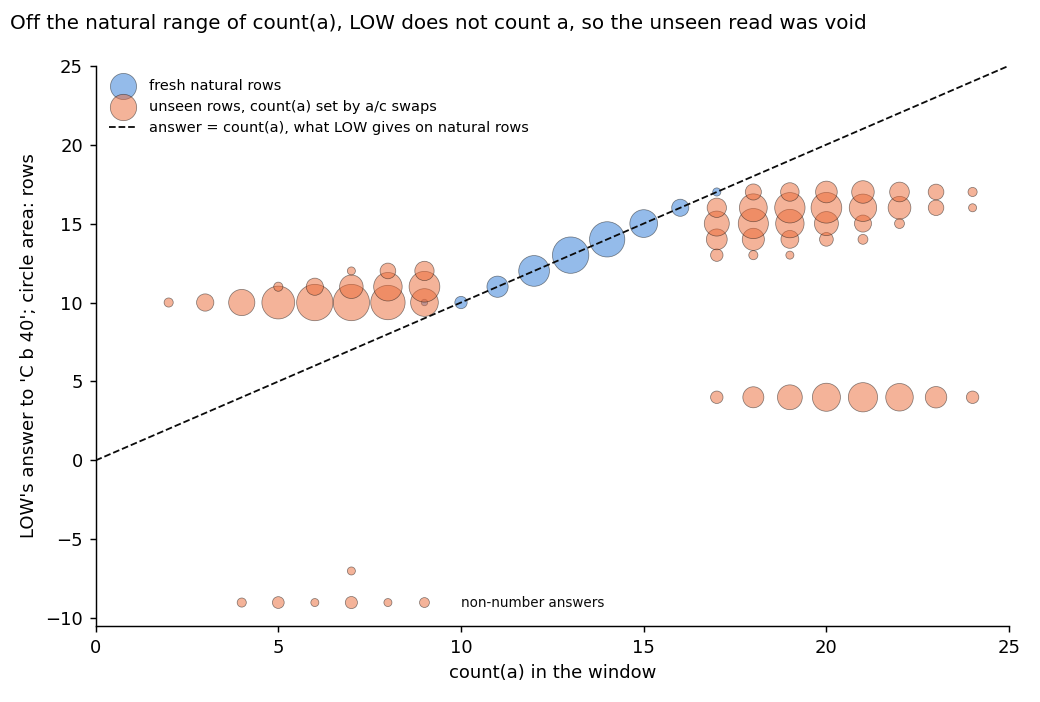
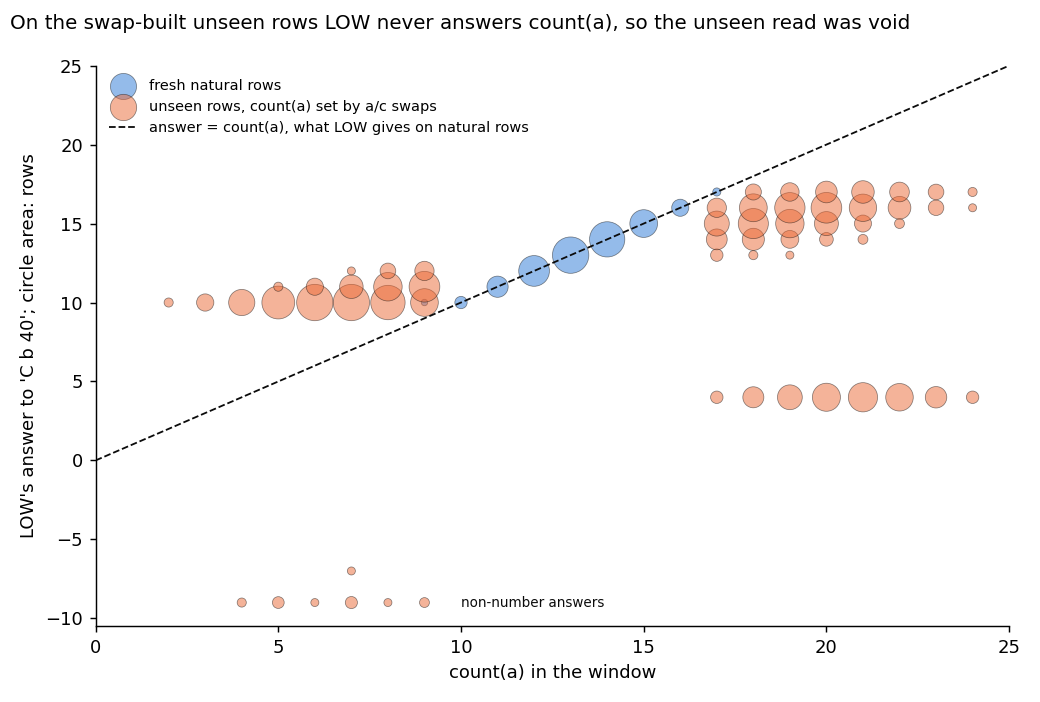
E55 Amendment 2: apply independent check corrections
reports/reviews/2026-10-29_review_e55-amend2-analysis.md findings 1-8: void caused mainly by the
swap-built rows (N1 by swap size table), 0 of 2 out-of-pair fresh rows, corrected-set cost,
LOW's answers above 17, trajectory as context, pair (16, 12), stage hedge, Stage A swap check.

Changed region(s): [[0.0308, 0.0, 0.8615, 0.0598]]

diff --git a/experiments/pcfg_anchors/plot_amend2.py b/experiments/pcfg_anchors/plot_amend2.py
@@ -42,7 +42,7 @@ def fig_fresh(out: str = "amend2_fresh.png",
 
 
 def fig_unseen(out: str = "amend2_unseen.png",
-               title: str = "Off the natural range of count(a), LOW does not count a, so the unseen read was void") -> None:  # fmt: skip
+               title: str = "On the swap-built unseen rows LOW never answers count(a), so the unseen read was void") -> None:  # fmt: skip
     big = RES / "large/amend2"
     fig, ax = plt.subplots(figsize=(8.0, 5.4))
     for name, col, lab in (("fresh", N_C, "fresh natural rows"), ("unseen", W_C, "unseen rows, count(a) set by a/c swaps")):

diff --git a/experiments/TRIED.md b/experiments/TRIED.md
@@ -104,7 +104,7 @@ Codes E1–E13 are the ones the research log ("Update Decomposition", see `READM
 | E52 | Activation and prompting baselines for teach vs elicit: do neuron patching (B2), a steering vector (B3) or prompting the original model with demonstrations (B4) tell E12's copy fine-tunes from its cipher fine-tunes, and does each read the learned-nothing code fine-tune as "no change"? (`experiments/baseline_neurons/`, 2026-10-29, ran; `reports/analyses/2026-10-29_analysis_e52-baseline-neurons.md`, `notebooks/E52_baseline_neurons.ipynb`; plan `reports/plans/2026-10-29_plan_baselines-scoping.md` section "B2 + B3 + B4 = E52"; predictions `results/predictions.json`; MATS cluster L40, debug QoS, job 44095, $0, `cluster/baseline_neurons.sbatch`) | Target model only, fp32, E46's eight E12 states and `code_step10`, each task's 97 held-out windows split into fit and scoring halves; every share = the method's change in log P(target) at the answer position over the fine-tune's gain G. Stage 0 first (identity neuron patch, full residual patch, G > 1 nat). B4: W₀ with 0/4/16 (marker, key, value) demonstrations, query key excluded. B3: one mean residual shift per block input, layer chosen on the fit half. B2: top-k MLP neurons by mean activation shift take the tuned activations (k = 1…all), k₅₀ and the idle share of the top 16. P1-P4 by E51's separation rule, P5 by the 0.05-nat floor | Stage 0 passes (hooks, not methods). Prompting W₀ at n = 16: share copy 0.10–0.12 vs cipher 0.13–0.14, rise 1.0–1.2 vs 1.6–1.9 nats, both near null: separates the wrong way (P4 reversed). Steering: S 0.72–0.80 copy vs 0.10–0.19 cipher (P3 pass). Neuron patching: half the gain only at all 12288 neurons in all 8 states, full-width share 0.50–0.71 copy, 0.76–0.97 cipher (P1 fails); idle share does not separate (P2 fails). code_step10 G = −0.0514 vs floor 0.05 (P5 fails by 0.0014) | Filed tree: P4 failed, stop and ask; decision pending (`reports/decisions/2026-10-29_decision_e52-p4.md`; options amend and rerun prompting, write up steering with caveat, key-dependent elicit pair). Readings of the reversal, all hypotheses: labels never checked by behaviour, prompt format too weak for a 4-layer model, two near-null shares. Steering may separate this pair by construction (input-independent vector vs key-dependent cipher) |
 | E52 amend 1 | Does the original model perform each task in context when the demonstrations sit next to the query? P4 re-asked (`experiments/baseline_neurons/amend1.py`, `plot_amend1.py`, 2026-10-29; decision `reports/decisions/2026-10-29_decision_e52-p4.md` option A, user "A then C"; predictions `results/predictions_amend1.json`; `cluster/baseline_neurons_amend1.sbatch`, MATS debug, $0) | W₀ only, the 48 scoring windows per task: Pile tokens 0-18, n = 0/4/16/31 (marker, key, value) demonstrations of other keys (E52's own draws; 31 = every other key), then the marker and query key. Share = rise / E52's G_score; top-1 at n = 31; raw rise. Stage 0: induction control (random 25-token sequence shown twice, top-1 on the second copy ≥ 0.5, source Olsson et al. 2022) and n = 0 equal to E52's window. P4a: copy share ≥ 0.5 at n = 31 and separates copy-higher by E52's rule; bands 0.5 / 0.3 | Filed and coded, not run (lean: fails, partial or mechanism only, low confidence) | Next: run; then option C (key-dependent elicit pair) to `/design` |
 | E53 | Performed anchor, stage A0 (planned): does the original 67M already continue lowercase Pile in lowercase, and fail a 50-word token cipher, before any fine-tune of either? (`experiments/performed_anchor/a0.py`, `src/commute/performed.py`, `cluster/performed_anchor.sbatch`, 2026-10-29; plan `reports/plans/2026-10-29_plan_performed-anchor.md` option A, approved by the user; predictions `results/predictions_a0.json`; cluster debug L40, ~5 min, $0) | W₀ only, Pile val rows 0-255. Control: W₀'s held-out log-probability on E36 Amendment 1's lowercased rows within 0.01 of −3.146. Log p(lowercase form) − log p(capitalised form) at case positions (6,070 by the tokenizer) in the lowercased rows (≥ +1) and in the cased rows (≤ −1); log p(π(x)) − log p(x) at cipher positions (2,916; π a seeded derangement of the word tokens of frequency ranks 50-99, in context and targets) (≤ −3). Stop: control missed, lowercase ≤ 0 or cipher > −1. **Fine-tunes and readings (code and predictions filed 2026-10-29, `run.py finetune` then `run.py read`, `score.py`, predictions `results/predictions.json`; cluster debug L40, two jobs ≤ 30 min, $0):** E37's recipe on each task at batch orders 0 and 1 (cipher saved at steps 10, 100, 300); at up to 500 scored positions per task (127-token windows), the stand-in ratio under the least-squares split (P1, scored: separates if min lowercase − max cipher ≥ 0.3), the relay (P2, reported), the zero update and do-nothing first, then a KL-matched random δW and a G-matched hand write (P3: write minus fine-tune within 0.15 = the ratio tracks the task). A row under 1 nat is read above a noise floor F = max(0.1, 2 × the random δW's gain, 2 × the row's standard error) | A0 ran and passed: lowercase +1.18 nats (90% interval 0.84-1.56), cased −5.58, cipher −5.53, control −3.1458 (`results/a0.json`). **Fine-tunes and readings ran** (`results/finetune.json`, `results/read.json`; analysis `reports/analyses/2026-10-29_analysis_e53-performed-anchor.md`, notebook `notebooks/E53_performed_anchor.ipynb`, figures `figures/{ratio,gain,nulls,relay}.png` from `plot.py`; MATS cluster L40 debug, fine-tune 107 s, read 217 s, $0; job IDs not recorded; pending an independent check). Controls passed: recipe 0.12963 vs 0.1301; bf16 within 0.0003; zero, do-nothing and same-G exact, but by construction (no information). **P1 separates**: stand-in ratio (masked gain / subcomponent gain, `score.ratio_of`) lowercase 0.919, 0.929 vs cipher 0.264, 0.257, gap 0.654 (bar 0.3; same at the 1-nat bar); 90% intervals ±0.03-0.06; seed spread ≤ 0.011. Gate gain / subcomponent gain 0.87-0.88 vs 0.14-0.15; the part beyond g is 0.05 of the subcomponent gain on lowercase but 0.12 on the cipher (toys 0.01-0.05; provisional). Matched gain (reported): cipher seed 0 step 100 G 2.32 ratio 0.28, seed 1 step 10 G 1.00 ratio 0.38, vs lowercase G 1.61-1.67; cipher ratio falls with steps (≈0.4 → 0.26). **P2 does not separate** (as leaned): relay 0.66 vs 0.41-0.42, gap 0.24; cipher relay below its lean 0.6-0.8, falls from 0.70-0.75 at step 10, alike to lowercase at matched gain. **P3 unread**: both hand writes hit the α cap 1000 without reaching target, G −16.9 (lowercase) and −11.9 (cipher), off-target KL 22.7 and 34.5 vs 0.37/0.26; write fit cosine 0.11/0.24, relative error 1.7/1.8 (next-token keys not identifiable from the input, candidate). Random δW (KL-matched): G −0.24 lowercase (gains negative, ratio undefined), +0.25 cipher (under its floor 0.49, unread; cells divide to 0.83). Leans: lowercase ratio, relay, G met; cipher ratio and G met, relay missed. Reading "separates (P3 unread)". Limit: a new mechanism built from W₀'s pieces reads "elicited"; the cipher's answers are common words with existing output pieces, yet read low | The ratio separates this performed/new pair by a wide margin, but whether it reads kind or task is open (the main caveat). Next: a task-matched null that reaches its gain (decides kind vs task), a second decomposition seed (narrows the granularity limit), then Qwen stage 1 with an anchor Qwen performs; the choice goes to the user |
-| E55 | Reuse anchors, Stage A: on Jain et al.'s counting grammar, does a fine-tune that learns to count b run through the model's existing count of a, judged by behaviour and an interchange patch with no decomposition? (`experiments/pcfg_anchors/`, `src/commute/pcfg.py`, `src/commute/interchange.py`, 2026-10-29; plan `reports/plans/2026-10-29_plan_reuse-stage1.md` Revision 1; predictions `results/predictions.json`, four filings, A2 bars filed before any fine-tune; analysis `reports/analyses/2026-10-29_analysis_e55-stage-a.md`, corrected after review `reports/reviews/2026-10-29_review_e55-stage-a-analysis.md`, notebook `notebooks/E55_pcfg_anchors.ipynb`, figures `figures/{controls,probe,labels,table6}.png` from `plot.py`, log figures from `plot_log.py`; MATS cluster debug, jobs a0 44244, a1 44268-44270, a1c 44306/44307, a2 44328-44330, $0) | minGPT 6 blocks d 192 (~3M), 50K pretraining steps, three Counter priors: LOW (counts a), HIGH (a, b, c), NEVER (b only). Fine-tunes to count b from LOW at lr {1e-4, 1e-5} × spurious share {0, 0.5, 0.8, 1} (Table 6 grid; spurious rows set count(b) = count(a) + 1), plus R from HIGH; seed 1 of N1 and W1; states at 1K and 10K. Checks at `=`: behaviour B (share answering count(a) + 1, or count(b)) and patch P (residual after block 5 swapped from a donor with the same other count; share following the donor), bars from A1 nulls and positives (count a: B 0.10/0.50, P 0.097/0.483; count b: B 0.342/0.635, P 0.10/0.50). Possession: linear probe margin over shuffled-label (and NEVER) controls, bar 0.5 × LOW's count-a margin | Controls clean: P at block 5 0.966 (LOW count a) and 1.000 (HIGH count b), every null 0 at every block; LOW's count-b accuracy 0.2215 = the score of answering count(a). PA1 pass. PA2 pass at the cap: 7 of 9 10K cells within 15 points; W1 17.7 (on the count(a) + 1 floor 17.65) and W2 25.95 miss. **PA3 missed, not reversed** (4 of 7): W1 1K through count a (B 0.88, P 0.72; seed 1 0.90, 0.76), W1 10K neither (0.40, 0.36, both seeds), W2 neither at 1K (B 0.488 vs hi 0.4999) and 10K; N1 not through at both (B = P = 0); R through count b. Every N and M state at 10K: B = P = 0 for count a, through count b; also loses LOW's count-a task (0.2175, as NEVER). Fast arms never through count a; the slow 80%-spurious arm M3 is through count a at 1K (B 0.631, P 0.594; the plan leaned this way for M2 and M3) and not through at 10K; M2 1K neither (P 0.519 over hi, B 0.430). W at 10K: last-block swap 0.64 (count a) and 0.57 (count b), so the answer depends on both. A count-c-only answer is ruled out for W1 at 10K: since a + b + c = 40, any f(count c) with B_b <= 0.01 reaches B_a <= 0.105 vs 0.399 read (65K windows, no model); the midpoint of count(a) + 1 and count(b), rounded towards count(a) + 1, gives (0.408, 0.000) and fits, untested. W2 10K (0.292, 0.102) not excluded. B and P never point opposite ways (null: 0 of 17). PA4 pass by its rule, narrowly: LOW count-b margin 0.277 at block 2 vs bar 0.260 (3 s 0.032); controls uneven (count-a margin also subtracts NEVER, which decodes count a at 0.44-0.52; count-b margin subtracts shuffled labels only; count(a) alone predicts count(b) at 0.40). Each A2 cell read once, binomial sd ~0.016 near 0.5; no count-a label rests on a cell within noise. Stage C truth set: 2 through (M3 1K, W1 1K), 9 not, 5 neither (plan expected 6/8/2); pass bar for n = 11 is 10. **Amendment 1** (`amend1.py`, `results/predictions_amend1.json` filed twice before the run, `results/amend1.json`, job 44439, $0, figures `amend1_{trajectory,rounding,offsets}.png` from `plot_amend1.py`): per-row answers on 8,000 natural rows against four rules (count(a) + 1, count(b), count(a), midpoint of count(a) + 1 and count(b) rounded towards count(a) + 1) plus a rounding read that separates the midpoint from count c alone. Controls all pass (6 synthetic answerers, N1 10K route b, LOW route a). AM1 met (W1, W1s1 1K route count(a) + 1, S 0.82, 0.86). **AM2 missed**: W1, W1s1 10K route mixed, S_mid 0.50 < 0.81; above count(a) + 1 they round as the midpoint (0.99, 1.00), below only 0.35, 0.37. AM3 10K met (W2 10K midpoint, S_mid 0.998, both halves), AM3 1K missed (W2 1K already mixed, S_a+1 0.15). AM4 met (no fixed rounding, so no count-c-only answer). AM5: re-run reproduces B, P within 0.002 but max abs dw 4e-4 to 2.4e-3 (sibling run; losses differ by step 500 on the same data, cause unmeasured: kernels, card, compile or resume steps); through count a at 2K, neither from 3K; rule switch missed. Exploration, not filed: W1 and W1s1 at 10K answer round((2(count(a) + 1) + count(b)) / 3), a third of the way from count(a) + 1 to count(b), on 97.8% and 98.1% of rows and on all 92 rows where it differs from the four rules; below count(a) + 1 they answer count(a) where count(b) is 1-3 below count(a), one step nearer count(a) + 1 than the midpoint. No A2 label changes. **Amendment 2** (`amend2.py`, `results/predictions_amend2.json` filed before the run, `results/amend2.json`, job 44520, $0, figures `amend2_{fresh,unseen}.png` from `plot_amend2.py`): the one-third rule filed and read on 20,000 fresh natural rows. All filed fresh-row predictions met: W1, W1s1 10K route third (S 0.991 on its 219 own rows, 0.977 and 0.981 of all rows, 0.21 over the best rule of count c alone); W2 1K third (0.982); W2 10K mid (S 1.0; mid 0.10 over count c alone); W1 1K still a+1. A within-pair replication only (fresh rows repeat amend1's (a, b) cells, code review finding 1). The unseen-pair read (8,949 rows built by a/c swaps, count a 2-9 or 17-24) was void: 0 rows where LOW answers count(a); model-free diagnosis: rebuilt counts match, LOW clips its answer to about 10-17 (a model range limit, not a scoring bug), and also fails on 341 swap-built rows at (17, 13) though it counts a = 17 on natural rows; an in-range natural unseen set has about 5 edge cells, each at most 1 in 20,000 natural rows | The ground truth works but gives only two "existing" states; Amendment 1 shows the all-spurious states at 10K answer a function of two of the three counts that no single count explains (best one-count rule 0.79 of rows vs 0.978; which two, behaviour cannot tell, since a + b + c = 40; count a as one of them rests on LOW's prior), a candidate third class rather than "existing" anchors. Next: the user decides Stage C's truth set (keep 11 labelled states; add a third class "answers a function of two counts, not of the old count alone" holding W2 10K and, W1 10K, now filed and met on fresh rows within the same pairs; or score the W arms as a separate test); W2 1K matches the one-third rule on 0.899 of rows before moving to the midpoint, and W1's lower half is still rising at 10K (0.113, 0.198, 0.356 at 5K, 7K, 10K), both bearing on that choice; more "existing" anchors need more seeds of W1 at 1K-2K (the window closes by 3K) |
+| E55 | Reuse anchors, Stage A: on Jain et al.'s counting grammar, does a fine-tune that learns to count b run through the model's existing count of a, judged by behaviour and an interchange patch with no decomposition? (`experiments/pcfg_anchors/`, `src/commute/pcfg.py`, `src/commute/interchange.py`, 2026-10-29; plan `reports/plans/2026-10-29_plan_reuse-stage1.md` Revision 1; predictions `results/predictions.json`, four filings, A2 bars filed before any fine-tune; analysis `reports/analyses/2026-10-29_analysis_e55-stage-a.md`, corrected after review `reports/reviews/2026-10-29_review_e55-stage-a-analysis.md`, notebook `notebooks/E55_pcfg_anchors.ipynb`, figures `figures/{controls,probe,labels,table6}.png` from `plot.py`, log figures from `plot_log.py`; MATS cluster debug, jobs a0 44244, a1 44268-44270, a1c 44306/44307, a2 44328-44330, $0) | minGPT 6 blocks d 192 (~3M), 50K pretraining steps, three Counter priors: LOW (counts a), HIGH (a, b, c), NEVER (b only). Fine-tunes to count b from LOW at lr {1e-4, 1e-5} × spurious share {0, 0.5, 0.8, 1} (Table 6 grid; spurious rows set count(b) = count(a) + 1), plus R from HIGH; seed 1 of N1 and W1; states at 1K and 10K. Checks at `=`: behaviour B (share answering count(a) + 1, or count(b)) and patch P (residual after block 5 swapped from a donor with the same other count; share following the donor), bars from A1 nulls and positives (count a: B 0.10/0.50, P 0.097/0.483; count b: B 0.342/0.635, P 0.10/0.50). Possession: linear probe margin over shuffled-label (and NEVER) controls, bar 0.5 × LOW's count-a margin | Controls clean: P at block 5 0.966 (LOW count a) and 1.000 (HIGH count b), every null 0 at every block; LOW's count-b accuracy 0.2215 = the score of answering count(a). PA1 pass. PA2 pass at the cap: 7 of 9 10K cells within 15 points; W1 17.7 (on the count(a) + 1 floor 17.65) and W2 25.95 miss. **PA3 missed, not reversed** (4 of 7): W1 1K through count a (B 0.88, P 0.72; seed 1 0.90, 0.76), W1 10K neither (0.40, 0.36, both seeds), W2 neither at 1K (B 0.488 vs hi 0.4999) and 10K; N1 not through at both (B = P = 0); R through count b. Every N and M state at 10K: B = P = 0 for count a, through count b; also loses LOW's count-a task (0.2175, as NEVER). Fast arms never through count a; the slow 80%-spurious arm M3 is through count a at 1K (B 0.631, P 0.594; the plan leaned this way for M2 and M3) and not through at 10K; M2 1K neither (P 0.519 over hi, B 0.430). W at 10K: last-block swap 0.64 (count a) and 0.57 (count b), so the answer depends on both. A count-c-only answer is ruled out for W1 at 10K: since a + b + c = 40, any f(count c) with B_b <= 0.01 reaches B_a <= 0.105 vs 0.399 read (65K windows, no model); the midpoint of count(a) + 1 and count(b), rounded towards count(a) + 1, gives (0.408, 0.000) and fits, untested. W2 10K (0.292, 0.102) not excluded. B and P never point opposite ways (null: 0 of 17). PA4 pass by its rule, narrowly: LOW count-b margin 0.277 at block 2 vs bar 0.260 (3 s 0.032); controls uneven (count-a margin also subtracts NEVER, which decodes count a at 0.44-0.52; count-b margin subtracts shuffled labels only; count(a) alone predicts count(b) at 0.40). Each A2 cell read once, binomial sd ~0.016 near 0.5; no count-a label rests on a cell within noise. Stage C truth set: 2 through (M3 1K, W1 1K), 9 not, 5 neither (plan expected 6/8/2); pass bar for n = 11 is 10. **Amendment 1** (`amend1.py`, `results/predictions_amend1.json` filed twice before the run, `results/amend1.json`, job 44439, $0, figures `amend1_{trajectory,rounding,offsets}.png` from `plot_amend1.py`): per-row answers on 8,000 natural rows against four rules (count(a) + 1, count(b), count(a), midpoint of count(a) + 1 and count(b) rounded towards count(a) + 1) plus a rounding read that separates the midpoint from count c alone. Controls all pass (6 synthetic answerers, N1 10K route b, LOW route a). AM1 met (W1, W1s1 1K route count(a) + 1, S 0.82, 0.86). **AM2 missed**: W1, W1s1 10K route mixed, S_mid 0.50 < 0.81; above count(a) + 1 they round as the midpoint (0.99, 1.00), below only 0.35, 0.37. AM3 10K met (W2 10K midpoint, S_mid 0.998, both halves), AM3 1K missed (W2 1K already mixed, S_a+1 0.15). AM4 met (no fixed rounding, so no count-c-only answer). AM5: re-run reproduces B, P within 0.002 but max abs dw 4e-4 to 2.4e-3 (sibling run; losses differ by step 500 on the same data, cause unmeasured: kernels, card, compile or resume steps); through count a at 2K, neither from 3K; rule switch missed. Exploration, not filed: W1 and W1s1 at 10K answer round((2(count(a) + 1) + count(b)) / 3), a third of the way from count(a) + 1 to count(b), on 97.8% and 98.1% of rows and on all 92 rows where it differs from the four rules; below count(a) + 1 they answer count(a) where count(b) is 1-3 below count(a), one step nearer count(a) + 1 than the midpoint. No A2 label changes. **Amendment 2** (`amend2.py`, `results/predictions_amend2.json` filed before the run, `results/amend2.json`, job 44520, $0, figures `amend2_{fresh,unseen}.png` from `plot_amend2.py`): the one-third rule filed and read on 20,000 fresh natural rows. All filed fresh-row predictions met: W1, W1s1 10K route third (S 0.991 on its 219 own rows, 0.977 and 0.981 of all rows, 0.21 over the best rule of count c alone); W2 1K third (0.982); W2 10K mid (S 1.0; mid 0.10 over count c alone); W1 1K still a+1. A within-pair replication only (fresh rows repeat amend1's (a, b) cells, code review finding 1). The unseen-pair read (8,949 rows built by a/c swaps, count a 2-9 or 17-24) was void: 0 rows where LOW answers count(a); model-free diagnosis, corrected after the independent check reports/reviews/2026-10-29_review_e55-amend2-analysis.md: rebuilt counts match (no bug), but the swap-built rows break both controls, more the larger the swap: N1's untouched count(b) is exact on 0.87 of rows at 2 letters swapped and 0.14 at 8; above 17 LOW answers roughly the pre-swap count(a) (mode 4 at a = 21-24), and fails all 341 rows in the in-range pair (17, 13); below 10 a clip near 10 may add. The two fresh rows in new pairs where third is distinct, (17, 10) and (17, 9), are answered 16 by every state following third, not its 15 (0 of 2). A natural-text unseen set in 5 in-range pairs costs CPU seconds to minutes; Amendment 3 (being written) builds it and checks Stage A's spurious-row accuracy by swap size, since the fine-tuning and spurious test rows use the same swap step | The ground truth works but gives only two "existing" states; Amendment 1 shows the all-spurious states at 10K answer a function of two of the three counts that no single count explains (best one-count rule 0.79 of rows vs 0.978; which two, behaviour cannot tell, since a + b + c = 40; count a as one of them rests on LOW's prior), a candidate third class rather than "existing" anchors. Next: the user decides Stage C's truth set (keep 11 labelled states; add a third class "answers a function of two counts, not of the old count alone" holding W2 10K and, W1 10K, now filed and met on fresh rows within the same pairs; or score the W arms as a separate test); W2 1K matches the one-third rule on 0.899 of rows before moving to the midpoint, and W1's lower half is still rising at 10K (0.113, 0.198, 0.356 at 5K, 7K, 10K), both bearing on that choice; more "existing" anchors need more seeds of W1 at 1K-2K (the window closes by 3K) |
 
 ## Proposed and dropped
 

diff --git a/reports/analyses/2026-10-29_analysis_e55-stage-a.md b/reports/analyses/2026-10-29_analysis_e55-stage-a.md
@@ -316,6 +316,9 @@ count alone; that makes them a candidate third class, not more "existing" anchor
    10K. They leave `count(a) + 1` between 1K and 5K for an answer built from two counts, so the next step is the
    third-class decision there.
 3. **Done in Amendment 2, below:** the one-third rule on fresh rows. It held; the test on new pairs of counts was void.
+4. **Check Stage A's spurious-row readings for a swap effect.** The fine-tuning rows and the spurious test rows are
+   built by the same a/c swap step, which Amendment 2 found breaks the control models on larger swaps. Stage A's
+   readings on spurious rows may carry part of that effect; Amendment 3 checks accuracy there by swap size, $0.
 
 ## Scorecard
 
@@ -341,6 +344,8 @@ by `interchange.label` with strict inequalities.
   of LOW, gated.
 - Per-row answers and states between 1K and 10K were run in Amendment 1, below; its own "Not run" list follows it.
 - A test of the one-third rule on new pairs of counts: Amendment 2's unseen read was void; its "Not run" list follows it.
+- A check of the spurious-row readings by swap size: the fine-tuning and spurious test rows use the a/c swap step
+  that broke the controls in Amendment 2.
 - A mechanism-level test that separates the count of c from the counts of a and b, for either patch.
 - A positive control of the fine-tuned behaviour reading itself, the share equal to `count(a) + 1` on qualifying
   `C b 40` inputs. A count-b patch null on `C b 40`, the fine-tunes' own prefix.
@@ -671,14 +676,17 @@ cd1c19b. Figures from `plot_amend2.py`.*
 We read the all-spurious fine-tunes again on 20,000 fresh natural inputs, to test the rule Amendment 1 found by
 looking. Both seeds of the slow fine-tune at 10K answer it on 98% of the fresh rows, the fast one at 1K
 follows it on its own rows, and the fast one at 10K still answers the midpoint. The fresh rows repeat the same count
-combinations, so this shows the rule is stable, not that it generalises; the test on new combinations was void.
+combinations, so this shows the rule is stable, not that it generalises; the test on new combinations was void,
+because the swap-built rows broke both control models.
 
 ### The answer
 
 The one-third rule now passes a filed test. The slow all-spurious fine-tune at 10K answers it on 98% of 20,000 new
 rows at both seeds, and on 99% of the rows where it differs from every other rule. The fast one at 1K follows it
-too, and moves on to the midpoint by 10K. Every filed prediction on the fresh rows was met. But the new rows hold the
-same pairs of counts as before. The test on new pairs was void, because the base model cannot count a that far out.
+too; at 10K it answers the midpoint, so the one-third rule may be a stage it passes through. Every filed prediction on the fresh rows was met. But the new rows hold the
+same pairs of counts as before. The test on new pairs was void: the rows built for it by swapping
+letters broke both control models, more the larger the swap. The only two fresh rows in new pairs go against the
+rule.
 
 ### What we were trying to test
 
@@ -688,8 +696,9 @@ drawn from a new seed and disjoint from Amendment 1's rows, were asked `C b 40` 
 the four of Amendment 1 plus the one-third rule, is read on its own rows, with the same bars. A second read asks
 whether the state's answers beat the best possible rule of count c alone by more than 0.05 of all rows.
 
-The code review pointed out that fresh texts land in the same pairs of window counts as before. Since a state's
-answer is almost fixed by that pair, the fresh read is a replication within the same pairs. So a second set was
+The code review pointed out that fresh texts land in the same pairs of window counts as before. A state's
+answer is almost fixed by that pair, so the fresh read is a replication within the same pairs. One large pair is an
+exception: in pair (16, 12), 142 rows, the slow state at 10K answers `count(a)` on 102 rows and the rule on 40. So a second set was
 added before the run: 8,949 rows whose count of a was moved four to eight away from count b by swapping a's and c's,
 in pairs Amendment 1 never saw. Those rows were to be read only in pairs where LOW still answers `count(a)` and the
 fast no-spurious fine-tune still answers `count(b)`.
@@ -715,7 +724,8 @@ rows. The fast one at 10K never does there and follows the midpoint instead, on 
 fast no-spurious fine-tune sit at or under their count-c reference.
 
 The re-run of the slow arm tells the same story on the fresh rows. Its route is `count(a) + 1` at 1K, mixed at 2K,
-and the one-third rule from 3K on. Its share of all rows rises from 0.58 at 1K to 0.98 at 10K.
+and the one-third rule from 3K on. Its share of all rows rises from 0.58 at 1K to 0.98 at 10K. These re-run
+states are context, not scored.
 
 | state | route | one-third rule, own rows | one-third rule, all rows | margin over count c alone | midpoint, own rows |
 |---|---|---|---|---|---|
@@ -743,34 +753,53 @@ Re-run of the slow arm, seed 0 then seed 1:
 
 ![LOW's answer against count a, fresh and unseen rows](../../experiments/pcfg_anchors/figures/amend2_unseen.png)
 
-**Reading it.** Because the base model does not count a outside the range it was trained on. The figure plots LOW's
-answer against the row's count of a. On fresh rows, where the count of a runs from 10 to 17, LOW answers it every
-time. On the unseen rows the count of a runs from 2 to 9 and from 17 to 24. There LOW answers 10 or 11 for every
-count of a up to 9, and 14 to 17, or a stray 4, above. It gives the right count on none of the 8,949 rows, so no
-pair passed the filter and the read was void.
+**Reading it.** Mainly because the rows built by swapping letters broke both control models, not because of a
+counting range we could show. The figure plots LOW's answer against the row's count of a. On fresh rows, where the
+count of a runs from 10 to 17, LOW answers it every time. On the unseen rows it is right on none of the 8,949 rows,
+so no pair passed the filter and the read was void.
 
-This is a limit of the model, not a mismatch in the construction or the scoring. Rebuilding the unseen texts from
-the filed seed without a model reproduced the saved counts on every row. LOW's answers move with the count of a in
-the right direction, and are clipped. The fast no-spurious fine-tune answers within one of `count(b)` on 90% of rows,
-so its answers line up with the saved rows; it errs mostly by one too high. Its count of b is in range, so the
-swaps also disturb a model's count of an untouched letter. One row type shows the swaps themselves may matter.
-LOW fails on all 341 unseen rows with count a at 17, count b at 13 and count c at 10. Each count there is in its
-natural range, and LOW answers the count of a at 17 on all nine fresh rows that have it. Whether the swap-built text
-or the rare combination causes that failure was not tested.
+The rows are what the filing specified: rebuilding them from the filed seed without a model reproduced the saved
+counts on every row. But the swap itself hurts. The fast no-spurious fine-tune answers `count(b)`, a letter the swap
+never touches and whose count stays in its natural range. Its exact share falls steadily with the number of letters
+swapped, as the table shows. On fresh natural rows it is exact for every count of c.
 
-A corrected unseen set looks hard to build. Pairs inside the range where LOW counts, count a 10 to 17, at least four
-apart and not in Amendment 1's rows, number eight. In five of them the one-third rule differs from the other rules, and all five have count a 14 to 17 with count b 9 or 10. Natural texts land in them at most once in 20,000. Sampling
-enough natural texts to fill them is possible model-free, but the five cells sit at the edge of the trained range, and
-would test generalisation only a little way out.
+| letters swapped | rows | fast no-spurious fine-tune answers `count(b)` | LOW answers `count(a)` |
+|---|---|---|---|
+| 1 | 9 | 1.00 | 0.00 |
+| 2 | 104 | 0.87 | 0.00 |
+| 3 | 473 | 0.70 | 0.00 |
+| 4 | 1,030 | 0.58 | 0.00 |
+| 5 | 1,514 | 0.47 | 0.00 |
+| 6 | 1,617 | 0.33 | 0.00 |
+| 7 | 1,540 | 0.21 | 0.00 |
+| 8 | 1,186 | 0.14 | 0.00 |
+| 9 to 13 | 1,476 | 0.00 to 0.06 | 0.00 |
+
+Where the count of a was raised above 17, LOW's answer follows the count of a before the swap, not after it. The
+independent check found a slope of 0.85 on the pre-swap count within pairs. Its mean answer falls from 14.6 at a
+count of 17 to 7.2 at 24, and the answer 4 is its most common one from 21 to 24. In pair (17, 13) every count is in
+its natural range, yet LOW is wrong on all 341 swap-built rows; it counts a at 17 on all nine natural rows that have
+it. Where the count of a was lowered to 9 or less, LOW answers about 10 whatever the count was before the swap. That
+looks like a clip, and the two natural rows with a count of 9 also read 10. So a range limit may add on that side.
+Whether LOW counts a outside 10 to 17 on natural text was not tested.
+
+A corrected unseen set is cheap to build. The sampler draws 200,000 natural texts in four seconds on one CPU. Five
+in-range pairs, count a 14 to 17 with count b 9 or 10, are new and have the one-third rule distinct. The most common
+of them, (17, 10), comes up about 17 times per 200,000 texts; two others need a few million texts for twenty rows; the
+rarest two need tens of millions, still CPU minutes. The same sampler gives natural rows in pair (17, 13), and one LOW
+read of them would say whether the swap or the rare pair broke LOW there. These pairs sit at the edge of the range, so
+they test generalisation only a short way out. An Amendment 3 is being written to build this set.
 
 ### What we learned
 
-The one-third rule is a stable description of the slow all-spurious fine-tune from 3K steps on, and of the fast one at
-1K. It holds on new texts within the same pairs of counts at both seeds, not just on the rows it was found on. It is not
-a rule of count c alone. Whether it extends to new pairs of counts is unknown: the base model cannot count that far
-out, so the test could not be run. For Stage C, the slow state at 10K now meets option 2's condition on fresh rows,
-with that limit stated. As before, the reads say the answer is a function of two of the three counts; that one is
-the count of a rests on LOW's prior.
+On fresh rows the slow all-spurious fine-tune at 10K answers the one-third rule at both seeds, and the fast one at 1K
+follows it on its own rows. In one re-run per seed the slow arm follows the rule on its own rows from 3K. It answers it
+on 95% of all rows from 5K at seed 0 and from 7K at seed 1. Those re-run states are context, not scored. The rule holds
+on new texts within the same pairs of counts, and it is not a rule of count c alone. Whether it extends to new pairs is
+open. The only two fresh rows in new pairs where it is distinct go against it, and the unseen test was void because the
+swap-built rows broke the controls. For Stage C, the slow state at 10K now meets option 2's condition on fresh rows,
+with that limit stated. As before, the reads say the answer is a function of two of the three counts; that one is the
+count of a rests on LOW's prior.
 
 ### How compelling is the evidence
 
@@ -779,6 +808,11 @@ the count of a rests on LOW's prior.
 - **Within-pair replication.** The review showed that giving each fresh row the slow state's most common answer from
   Amendment 1's rows for its pair already passes the main test. So the pass shows the answer is fixed by the pair of
   counts when the rest of the text changes. It does not show the rule extends to new pairs.
+- **Outside the pairs.** Of the 20,000 fresh rows, 19 lie in pairs Amendment 1 did not see. Two of them, in pairs
+  (17, 10) and (17, 9), are rows where the rule differs from every other. Every all-spurious state that follows the rule
+  answers 16 on both, where the rule gives 15; LOW counts a right on both. At a count of a of 17 the slow state answers
+  16 on all nine fresh rows, whatever count b is. Two rows prove nothing, but they are the only out-of-pair evidence,
+  and they go against the rule.
 - **Units.** The one-third rule's 219 own rows lie in about a dozen pairs, four of which hold 190 rows. So one pair
   answered otherwise would move its share by up to a third. The pooled share is 0.991, and all four pairs with
   twenty or more rows agree.
@@ -786,18 +820,19 @@ the count of a rests on LOW's prior.
 
 ### Surprises
 
-- LOW, which counts a perfectly on natural text, answers it on none of the swap-built rows, and is clipped near 10 and
-  17. A filed control missed for this reason, voiding the unseen read.
-- The fast no-spurious fine-tune also errs on those rows, by one too high, though the count of b there is untouched.
+- LOW, which counts a perfectly on natural text, answers it on none of the swap-built rows. Above 17 it answers
+  roughly the count of a before the swap. A filed control missed for this reason, voiding the unseen read.
+- The fast no-spurious fine-tune's count of b, which the swap never touches, gets worse the more letters were swapped.
+- The same swap step builds the spurious fine-tuning rows and Stage A's spurious test rows, with swaps of mostly 0 to
+  3. Stage A's readings on those rows could carry part of this effect.
 
 ### What next
 
-1. **The third-class decision for Stage C**, now with the slow state's rule filed and met on fresh rows within the
-   same pairs. If the user wants generalisation shown first, item 2 is the only route.
-2. **An in-range unseen set**, by sampling natural texts until about five edge pairs have twenty rows each, model-free
-   and $0. If LOW counts a there, the one-third rule gets a small out-of-pair test; if not, it cannot be tested on this
-   model.
-
+1. **Amendment 3, being written:** an unseen set from natural texts in the five new in-range pairs, a LOW read of
+   natural rows in pair (17, 13), and the accuracy of N1 and LOW on Stage A's spurious test rows by swap size. If LOW
+   counts a in the new pairs, the one-third rule gets a small out-of-pair test.
+2. **The third-class decision for Stage C**, now with the slow state's rule filed and met on fresh rows within the
+   same pairs, and with the two out-of-pair rows against it. Amendment 3's out-of-pair read bears on it.
 ### Scorecard
 
 | id | claim in words | rule | read | verdict |
@@ -815,9 +850,12 @@ the count of a rests on LOW's prior.
 
 ### Not run
 
-- Any read on pairs of counts outside Amendment 1's, so any test that the one-third rule generalises.
-- An unseen set built from natural texts in in-range pairs; a test of whether the swaps or the rare pair broke LOW at
-  count a 17, count b 13.
+- Any read on pairs of counts outside Amendment 1's beyond two fresh rows, so any test that the one-third rule
+  generalises. Amendment 3 is being written for this.
+- An unseen set built from natural texts in the new in-range pairs; a LOW read of natural rows in pair (17, 13).
+- A test of whether LOW counts a outside 10 to 17 on natural text.
+- The accuracy of N1 and LOW on Stage A's spurious test rows by swap size.
+- A trajectory of the fast all-spurious arm between 1K and 10K.
 - A mechanism test of the one-third rule or of the midpoint; anything telling which two counts are used.
 - A second seed of the fast all-spurious arm.
 - The two slow fine-tunes with natural rows at 1K, the other "neither" states.

diff --git a/docs/research_log/PENDING.md b/docs/research_log/PENDING.md
@@ -8,5 +8,5 @@ clerk: find it in the changelog rather than re-adding it (friction 84, 117).
 A flush applies every line to `parts/` (README.md → Layout), rebuilds, republishes, and moves the lines to the changelog row it writes, leaving this list empty.
 
 - 2026-10-29 reuse-lead · `reports/analyses/2026-10-29_analysis_e55-stage-a.md` (new section "Amendment 1", opening and answer updated), `notebooks/E55_pcfg_anchors.ipynb` (Amendment 1 cells), `experiments/TRIED.md` E55 row, log figure `experiments/pcfg_anchors/figures/log_amend1_trajectory.png` (from `plot_log.py`) · E55 card (add Amendment 1 to Found/Moved on; figure fig/e55_amend1_trajectory.png), pending-decision card (new: Stage C third class), timeline 2026-10-29 · E55 Amendment 1 ran ($0, job 44439): row by row, the all-spurious fine-tunes answer count(a) + 1 at 1K and leave it between 1K and 5K for an answer that is a function of two of the three counts and of no single count (which two, behaviour cannot tell); the fast one at 10K answers the midpoint of count(a) + 1 and count(b) (filed, met), the slow one does not (filed, missed) and, by an unfiled reading, answers a third of the way from count(a) + 1 to count(b) on 98% of rows; no fixed rounding, so no count-c-only answer; no A2 label changes (Stage C stays 2 through / 9 not / 5 neither), and whether these states form a third class ("answers a function of two counts, not of the old count alone") is a user decision; corrected after the independent check reports/reviews/2026-10-29_review_e55-amend1-analysis.md
-- 2026-10-29 reuse-lead · `reports/analyses/2026-10-29_analysis_e55-stage-a.md` (new section "Amendment 2", opening, answer, What next, Not run), `notebooks/E55_pcfg_anchors.ipynb` (Amendment 2 cells), `experiments/TRIED.md` E55 row, figures `experiments/pcfg_anchors/figures/amend2_{fresh,unseen}.png` (from `plot_amend2.py`) · E55 card (add Amendment 2 to Found), pending-decision card on the Stage C third class (the slow state's rule is now filed and met on fresh rows), timeline 2026-10-29 · E55 Amendment 2 ran ($0, job 44520): the one-third rule, filed, held on 20,000 fresh rows (slow all-spurious 10K at both seeds 0.98 of all rows, 0.99 on its own rows, 0.21 over count c alone; fast all-spurious at 1K follows it, at 10K the midpoint), every fresh-row prediction met, but the fresh rows repeat the same pairs of counts, so it shows stability, not generalisation; the test on new pairs was void because LOW cannot count a outside about 10-17 (diagnosed model-free: counts rebuild exactly, answers clipped)
+- 2026-10-29 reuse-lead · `reports/analyses/2026-10-29_analysis_e55-stage-a.md` (new section "Amendment 2", opening, answer, What next, Not run), `notebooks/E55_pcfg_anchors.ipynb` (Amendment 2 cells), `experiments/TRIED.md` E55 row, figures `experiments/pcfg_anchors/figures/amend2_{fresh,unseen}.png` (from `plot_amend2.py`) · E55 card (add Amendment 2 to Found), pending-decision card on the Stage C third class (the slow state's rule is now filed and met on fresh rows), timeline 2026-10-29 · E55 Amendment 2 ran ($0, job 44520): the one-third rule, filed, held on 20,000 fresh rows (slow all-spurious 10K at both seeds 0.98 of all rows, 0.99 on its own rows, 0.21 over count c alone; fast all-spurious at 1K follows it, at 10K the midpoint), every fresh-row prediction met, but the fresh rows repeat the same pairs of counts, so it shows stability, not generalisation; the test on new pairs was void because the swap-built rows broke both controls, more the larger the swap (diagnosed model-free; corrected after the independent check reports/reviews/2026-10-29_review_e55-amend2-analysis.md); the only two fresh rows in new pairs go against the rule (0 of 2); Amendment 3 is being written to build a natural-text unseen set and to check Stage A's spurious-row readings for the same swap effect
 - 2026-10-29 reuse-lead · reports/decisions/2026-10-29_decision_e55-stage-c-truth-set.md · new pending-decision card decision-e55-truth-set (Soon, Question for you, first in section); decision-e55-plan run line: "Stage A and Amendments 1-2 done; Stage C waits on decision-e55-truth-set" · Stage A gave 2 reuses / 9 not / 5 neither; options A score the 11 as filed, B add a third class (rule of two counts) without a bar, C first add early-step seeds and an identity-prompt fine-tune ($0); lead recommends C then A with B; Fable advised A after diagnostics with C on a card
